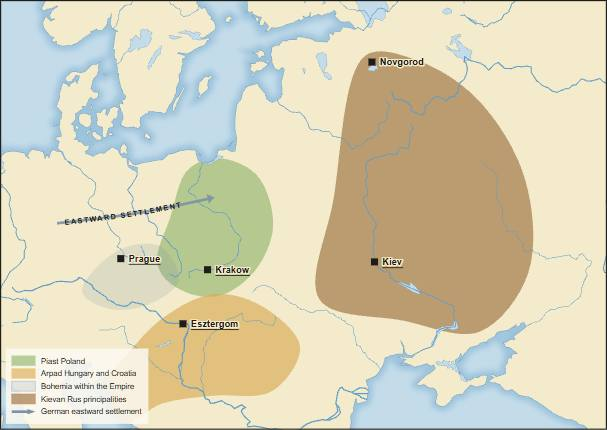
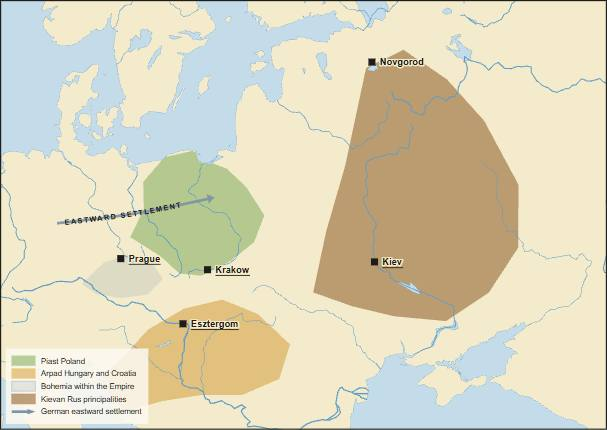
Fix land clipping and winding
Copilot-Session: 37f2f47f-8b63-49cd-b8ce-cded564ac449

diff --git a/atlas/js/plate.js b/atlas/js/plate.js
@@ -16,6 +16,7 @@
 
   const BASE = window.ATLAS_BASE;
   const LANDF = topojson.feature(BASE, BASE.objects.land);
+  const LAND_FEATURES = LANDF.type === "FeatureCollection" ? LANDF.features : [LANDF];
   const RIVERS = topojson.feature(BASE, BASE.objects.rivers);
   const LAKES = topojson.feature(BASE, BASE.objects.lakes);
 
@@ -83,6 +84,28 @@
   /** An area with its tier defaults filled in; anything set on the layer wins. */
   function areaLook(L) { return L.tier ? Object.assign({}, TIER_LOOK[L.tier], L) : L; }
 
+  const safeId = (s) => String(s || "plate").replace(/[^a-z0-9_-]+/gi, "-");
+
+  function closeRing(points) {
+    if (!points.length) return points;
+    const first = points[0], last = points[points.length - 1];
+    return first[0] === last[0] && first[1] === last[1] ? points : [...points, first];
+  }
+
+  function normalisePolygonRing(points) {
+    const ring = closeRing(points);
+    const area = d3.geoArea({ type: "Polygon", coordinates: [ring] });
+    return area > Math.PI * 2 ? [...points].reverse() : points;
+  }
+
+  function areaClipToLand(L) {
+    return L.clipToLand == null ? (L.clip !== "none" && L.clip !== false) : L.clipToLand;
+  }
+
+  function seaCutoutPath(geo, w, h) {
+    return `M0,0H${w}V${h}H0Z${geo(LANDF) || ""}`;
+  }
+
   function areaFill(defs, L) {
     L = areaLook(L);
     const c = L.colour || AREA_DEFAULT, pat = L.pattern || "solid";
@@ -94,7 +117,7 @@
   // ---- geometry: a soft "zone" around anchor places, the way the atlas draws realms
   function zonePath(L, proj) {
     if (L.polygon) {
-      const pts = L.polygon.map(proj);
+      const pts = normalisePolygonRing(L.polygon).map(proj);
       const smooth = L.smooth == null ? true : L.smooth;
       const curve = smooth === false ? d3.curveLinearClosed : d3.curveCatmullRomClosed.alpha(0.5);
       return d3.line().curve(curve)(pts);
@@ -173,16 +196,16 @@
   }
 
   const haloText = (sel, colour = LAND, w = 2.6) => sel.attr("stroke", colour).attr("stroke-width", w).attr("stroke-linejoin", "round").attr("paint-order", "stroke");
-function drawDiagramFigure(container, fig, fi, w, h) {
+function drawDiagramFigure(container, fig, fi, w, h, uid) {
   h = fig.diagram && fig.diagram.height ? Math.round(w * fig.diagram.height) : h;
   const svg = d3.select(container).append("svg")
     .attr("xmlns", "http://www.w3.org/2000/svg").attr("viewBox", `0 0 ${w} ${h}`).attr("width", w).attr("height", h)
     .attr("class", "fig").attr("data-fig", fi).attr("font-family", SANS);
   const defs = svg.append("defs");
-  defs.append("marker").attr("id", `diag-head-${fi}`).attr("viewBox", "0 0 10 10").attr("refX", 9).attr("refY", 5)
+  defs.append("marker").attr("id", `${uid}-diag-head-${fi}`).attr("viewBox", "0 0 10 10").attr("refX", 9).attr("refY", 5)
     .attr("markerWidth", 7).attr("markerHeight", 7).attr("orient", "auto-start-reverse")
     .append("path").attr("d", "M0,0L10,5L0,10Z").attr("fill", INK);
-  defs.append("marker").attr("id", `diag-bar-${fi}`).attr("viewBox", "0 0 10 10").attr("refX", 5).attr("refY", 5)
+  defs.append("marker").attr("id", `${uid}-diag-bar-${fi}`).attr("viewBox", "0 0 10 10").attr("refX", 5).attr("refY", 5)
     .attr("markerWidth", 8).attr("markerHeight", 8).attr("orient", "auto")
     .append("path").attr("d", "M5,1L5,9").attr("stroke", INK).attr("stroke-width", 2);
   svg.append("rect").attr("width", w).attr("height", h).attr("fill", LAND);
@@ -228,7 +251,7 @@ function drawDiagramFigure(container, fig, fi, w, h) {
     const dPath = route.length ? d3.line().curve(d3.curveLinear)(pts) : `M${p[0]},${p[1]}C${p[0]},${mid[1]} ${q[0]},${mid[1]} ${q[0]},${q[1]}`;
     g.append("path").attr("d", dPath)
       .attr("fill", "none").attr("stroke", a.colour || INK).attr("stroke-width", a.width || 1.6)
-      .attr("stroke-dasharray", a.dashed ? "5 4" : null).attr("marker-end", `url(#${a.end === "bar" ? "diag-bar" : "diag-head"}-${fi})`);
+      .attr("stroke-dasharray", a.dashed ? "5 4" : null).attr("marker-end", `url(#${uid}-${a.end === "bar" ? "diag-bar" : "diag-head"}-${fi})`);
     const labelAt = a.labelAt ? [sx(a.labelAt[0]), sy(a.labelAt[1])] : mid;
     if (a.label) haloText(g.append("text").attr("x", labelAt[0]).attr("y", labelAt[1] - 4).attr("text-anchor", "middle")
       .attr("font-size", 10).attr("font-style", "italic").attr("fill", a.colour || INK).text(a.label), LAND, 4);
@@ -236,7 +259,7 @@ function drawDiagramFigure(container, fig, fi, w, h) {
   return svg.node();
 }
 
-function drawSmallMultiplesFigure(container, fig, fi, w, h) {
+function drawSmallMultiplesFigure(container, fig, fi, w, h, uid) {
   const svg = d3.select(container).append("svg")
     .attr("xmlns", "http://www.w3.org/2000/svg").attr("viewBox", `0 0 ${w} ${h}`).attr("width", w).attr("height", h)
     .attr("class", "fig").attr("data-fig", fi).attr("font-family", SANS);
@@ -252,12 +275,13 @@ function drawSmallMultiplesFigure(container, fig, fi, w, h) {
     const panelDefs = g.append("defs");
     const proj = projectionFor(fig, pw, ph);
     const geo = d3.geoPath(proj);
-    const clipId = `sm-frame-${fi}-${i}`, landClip = `sm-land-${fi}-${i}`, landMask = `sm-land-mask-${fi}-${i}`;
+    const clipId = `${uid}-sm-frame-${fi}-${i}`, landClip = `${uid}-sm-land-${fi}-${i}`, landMask = `${uid}-sm-land-mask-${fi}-${i}`;
     panelDefs.append("clipPath").attr("id", clipId).attr("clipPathUnits", "userSpaceOnUse").append("rect").attr("width", pw).attr("height", ph);
-    panelDefs.append("clipPath").attr("id", landClip).attr("clipPathUnits", "userSpaceOnUse").append("path").attr("d", geo(LANDF));
+    const plc = panelDefs.append("clipPath").attr("id", landClip).attr("clipPathUnits", "userSpaceOnUse");
+    for (const f of LAND_FEATURES) plc.append("path").attr("d", geo(f));
     const lm = panelDefs.append("mask").attr("id", landMask).attr("maskUnits", "userSpaceOnUse");
     lm.append("rect").attr("width", pw).attr("height", ph).attr("fill", "#000");
-    lm.append("path").attr("d", geo(LANDF)).attr("fill", "#fff");
+    for (const f of LAND_FEATURES) lm.append("path").attr("d", geo(f)).attr("fill", "#fff");
     const root = g.append("g").attr("clip-path", `url(#${clipId})`);
     root.append("rect").attr("width", pw).attr("height", ph).attr("fill", SEA);
     root.append("path").attr("d", geo(LANDF)).attr("fill", LAND).attr("stroke", "#7fa9c4").attr("stroke-width", 0.5);
@@ -268,17 +292,30 @@ function drawSmallMultiplesFigure(container, fig, fi, w, h) {
     const pointLayer = root.append("g").attr("class", "points");
     const labelLayer = root.append("g").attr("class", "labels");
     const all = [...(fig.layers || []), ...(panel.layers || [])];
-    for (const L0 of all.filter((l) => l.type === "area")) {
+    let panelAreaSeq = 0;
+    const drawPanelArea = (L0) => {
       const L = areaLook(L0), d = zonePath(L, proj);
-      if (!d) continue;
+      if (!d) return;
       const lg = areaLayer.append("g").attr("class", `layer ${L.type}`).attr("data-layer", L.id || null);
-      const clipToLand = L.clipToLand == null ? (L.clip !== "none" && L.clip !== false) : L.clipToLand;
-      if (clipToLand) lg.attr("clip-path", `url(#${landClip})`).attr("mask", `url(#${landMask})`);
+      const clipToLand = areaClipToLand(L);
       const fill = areaFill(defs, L);
-      lg.append("path").attr("d", d).attr("fill", fill.fill).attr("fill-opacity", fill.op)
-        .attr("stroke", L.edge === false || clipToLand ? "none" : shade(L.colour || AREA_DEFAULT, 0.6)).attr("stroke-width", 0.7)
-        .attr("stroke-dasharray", L.edge === "dashed" ? "5 3" : null);
-    }
+      if (clipToLand) {
+        const areaClip = `${uid}-sm-area-${fi}-${i}-${safeId(L.id || "area")}-${panelAreaSeq++}`;
+        panelDefs.append("clipPath").attr("id", areaClip).attr("clipPathUnits", "userSpaceOnUse").append("path").attr("d", d);
+        lg.attr("clip-path", `url(#${areaClip})`);
+        for (const f of LAND_FEATURES) lg.append("path").attr("d", geo(f)).attr("fill", fill.fill).attr("fill-opacity", fill.op).attr("stroke", "none");
+      } else {
+        lg.append("path").attr("d", d).attr("fill", fill.fill).attr("fill-opacity", fill.op)
+          .attr("stroke", L.edge === false ? "none" : shade(L.colour || AREA_DEFAULT, 0.6)).attr("stroke-width", 0.7)
+          .attr("stroke-dasharray", L.edge === "dashed" ? "5 3" : null);
+      }
+    };
+    const areaLayers = all.filter((l) => l.type === "area");
+    for (const L of areaLayers.filter(areaClipToLand)) drawPanelArea(L);
+    root.append("path").attr("d", seaCutoutPath(geo, pw, ph)).attr("fill", SEA).attr("fill-rule", "evenodd").attr("pointer-events", "none");
+    root.append("path").attr("d", geo(LAKES)).attr("fill", SEA).attr("stroke", "#7fa9c4").attr("stroke-width", 0.35);
+    for (const f of RIVERS.features) if ((f.properties.scalerank || 6) <= 4) root.append("path").attr("d", geo(f)).attr("fill", "none").attr("stroke", RIVER).attr("stroke-width", 0.45);
+    for (const L of areaLayers.filter((l) => !areaClipToLand(l))) drawPanelArea(L);
     for (const L of all.filter((l) => l.type === "boundary")) {
       const d = d3.line().curve(L.closed ? d3.curveCatmullRomClosed.alpha(0.5) : d3.curveCatmullRom.alpha(0.5))(L.path.map(proj));
       lineLayer.append("path").attr("class", `layer ${L.type}`).attr("data-layer", L.id || null)
@@ -319,21 +356,25 @@ function drawSmallMultiplesFigure(container, fig, fi, w, h) {
 }
 
   // ---- one figure
-  function drawFigure(container, fig, fi, w, h) {
-    if (fig.kind === "diagram") return drawDiagramFigure(container, fig, fi, w, h);
-    if (fig.kind === "small-multiples") return drawSmallMultiplesFigure(container, fig, fi, w, h);
+  function drawFigure(container, fig, fi, w, h, uid) {
+    if (fig.kind === "diagram") return drawDiagramFigure(container, fig, fi, w, h, uid);
+    if (fig.kind === "small-multiples") return drawSmallMultiplesFigure(container, fig, fi, w, h, uid);
     const svg = d3.select(container).append("svg")
       .attr("xmlns", "http://www.w3.org/2000/svg").attr("viewBox", `0 0 ${w} ${h}`).attr("width", w).attr("height", h)
       .attr("class", "fig").attr("data-fig", fi).attr("font-family", SANS);
     const defs = svg.append("defs");
     const proj = projectionFor(fig, w, h);
     const geo = d3.geoPath(proj);
-    const clipId = `frame-${fi}`, landClip = `land-${fi}`;
-    defs.append("clipPath").attr("id", clipId).append("rect").attr("width", w).attr("height", h);
+    const clipId = `${uid}-frame-${fi}`, landClip = `${uid}-land-${fi}`, landMask = `${uid}-land-mask-${fi}`;
+    defs.append("clipPath").attr("id", clipId).attr("clipPathUnits", "userSpaceOnUse").append("rect").attr("width", w).attr("height", h);
     const base = fig.base || {};
-    const landDef = defs.append("clipPath").attr("id", landClip);
+    const landDef = defs.append("clipPath").attr("id", landClip).attr("clipPathUnits", "userSpaceOnUse");
     if (base.map === false) landDef.append("rect").attr("width", w).attr("height", h);
-    else landDef.append("path").attr("d", geo(LANDF));
+    else for (const f of LAND_FEATURES) landDef.append("path").attr("d", geo(f));
+    const lm = defs.append("mask").attr("id", landMask).attr("maskUnits", "userSpaceOnUse");
+    lm.append("rect").attr("width", w).attr("height", h).attr("fill", "#000");
+    if (base.map === false) lm.append("rect").attr("width", w).attr("height", h).attr("fill", "#fff");
+    else for (const f of LAND_FEATURES) lm.append("path").attr("d", geo(f)).attr("fill", "#fff");
     const blur = defs.append("filter").attr("id", `soft-${fi}`).attr("x", "-10%").attr("y", "-10%").attr("width", "120%").attr("height", "120%");
     blur.append("feGaussianBlur").attr("stdDeviation", 3);
 
@@ -365,19 +406,39 @@ function drawSmallMultiplesFigure(container, fig, fi, w, h) {
     const layerG = (parent, L) => parent.append("g").attr("class", `layer ${L.type}`).attr("data-layer", L.id || null);
     const layers = fig.layers || [];
 
-    // areas first, largest first so cores sit on top of extents
-    for (const L0 of layers.filter((l) => l.type === "area")) {
+    // areas first, largest first so cores sit on top of extents. Land-clipped areas are drawn under a
+    // sea cutout; explicit clipToLand:false areas (e.g. maritime zones) are drawn above it.
+    let areaSeq = 0;
+    const drawArea = (L0) => {
       const L = areaLook(L0);
       const d = zonePath(L, proj);
-      if (!d) continue;
+      if (!d) return;
       const g = layerG(L_AREA, L);
-      const clipToLand = L.clipToLand == null ? (L.clip !== "none" && L.clip !== false) : L.clipToLand;
-      if (clipToLand) g.attr("clip-path", `url(#${landClip})`);
+      const clipToLand = areaClipToLand(L);
       const { fill, op } = areaFill(defs, L);
-      g.append("path").attr("d", d).attr("fill", fill).attr("fill-opacity", op)
-        .attr("stroke", L.edge === false || clipToLand ? "none" : shade(L.colour || AREA_DEFAULT, 0.6)).attr("stroke-width", L.edge === "strong" ? 1.6 : 0.8)
-        .attr("stroke-dasharray", L.edge === "dashed" ? "5 3" : null);
+      if (clipToLand && base.map !== false) {
+        const areaClip = `${uid}-area-${fi}-${safeId(L.id || "area")}-${areaSeq++}`;
+        defs.append("clipPath").attr("id", areaClip).attr("clipPathUnits", "userSpaceOnUse").append("path").attr("d", d);
+        g.attr("clip-path", `url(#${areaClip})`);
+        for (const f of LAND_FEATURES) g.append("path").attr("d", geo(f)).attr("fill", fill).attr("fill-opacity", op).attr("stroke", "none");
+      } else {
+        g.append("path").attr("d", d).attr("fill", fill).attr("fill-opacity", op)
+          .attr("stroke", L.edge === false ? "none" : shade(L.colour || AREA_DEFAULT, 0.6)).attr("stroke-width", L.edge === "strong" ? 1.6 : 0.8)
+          .attr("stroke-dasharray", L.edge === "dashed" ? "5 3" : null);
+      }
+    };
+    const areaLayers = layers.filter((l) => l.type === "area");
+    for (const L of areaLayers.filter(areaClipToLand)) drawArea(L);
+    if (base.map !== false) {
+      L_WATER.append("path").attr("d", seaCutoutPath(geo, w, h)).attr("fill", base.sea || SEA).attr("fill-rule", "evenodd").attr("pointer-events", "none");
+      L_WATER.append("path").attr("d", geo(LAKES)).attr("fill", base.sea || SEA).attr("stroke", "#7fa9c4").attr("stroke-width", 0.4);
+      for (const f of RIVERS.features) {
+        const sr = f.properties.scalerank || 6;
+        if (sr > (base.riverRank || 6)) continue;
+        L_WATER.append("path").attr("d", geo(f)).attr("fill", "none").attr("stroke", RIVER).attr("stroke-width", Math.max(0.5, 1.6 - sr * 0.18)).attr("stroke-linecap", "round");
+      }
     }
+    for (const L of areaLayers.filter((l) => !areaClipToLand(l))) drawArea(L);
 
     for (const L of layers.filter((l) => l.type === "boundary")) {
       const g = layerG(L_LINES, L);
@@ -637,6 +698,7 @@ function drawSmallMultiplesFigure(container, fig, fi, w, h) {
     spread.appendChild(left);
 
     const figs = spec.figures;
+    const uid = `p-${safeId(spec.id)}`;
     const avail = PAGE_H - HEAD_H - figs.length * (CAP_H + GAP);
     const shares = figs.map((f) => f.share || 1), tot = shares.reduce((a, b) => a + b, 0);
     figs.forEach((fig, i) => {
@@ -644,7 +706,7 @@ function drawSmallMultiplesFigure(container, fig, fi, w, h) {
       box.className = "fig-box";
       left.appendChild(box);
       const h = Math.round((avail * shares[i]) / tot);
-      drawFigure(box, fig, i, PAGE_W, h);
+      drawFigure(box, fig, i, PAGE_W, h, uid);
       const cap = document.createElement("figcaption");
       cap.textContent = fig.caption;
       box.appendChild(cap);
@@ -793,7 +855,7 @@ function drawSmallMultiplesFigure(container, fig, fi, w, h) {
     window.ATLAS.ready = true;
   }
 
-  window.ATLAS = { render, figureSVG, show, drawSymbol, ready: false };
+  window.ATLAS = { render, figureSVG, show, drawSymbol, ready: false, test: { normalisePolygonRing } };
 
   document.addEventListener("DOMContentLoaded", () => {
     const pick = () => decodeURIComponent(location.hash.replace(/^#/, "")) || plateIds()[0];

diff --git a/atlas/plates/eastern-kingdoms-mongols.js b/atlas/plates/eastern-kingdoms-mongols.js
@@ -4,10 +4,10 @@
   const KIEV=[30.52,50.45], NOV=[31.28,58.52], KRA=[19.94,50.06], GNI=[17.03,52.54], ESZ=[18.74,47.79], BUDA=[19.04,47.5], LEGN=[16.16,51.21], SAJO=[20.8,48.1], PRAG=[14.42,50.08], MOS=[37.62,55.75];
   window.PLATES["eastern-kingdoms-mongols"] = { id:"eastern-kingdoms-mongols", title:"Poland, Hungary, Rus and the Mongol shock", head:"High Middle Ages / Eastern Europe", folio:"22", viewer:"medieval/1241/ch-eastern-kingdoms", figures:[
     { caption:"New Christian kingdoms and Rus before 1200", share:0.5, extent:[[10,44],[42,60]], projection:"conic", layers:[
-      {id:"poland",type:"area",tier:"core",colour:POL,legend:"Piast Poland",polygon:[[16.7,50.2],[17.2,52.0],[18.0,54.0],[20.0,54.6],[22.8,54.0],[24.0,52.0],[23.0,50.2],[21.0,49.1],[19.2,49.0],[17.4,49.5]],smooth:true},
-      {id:"hungary",type:"area",tier:"core",colour:HUN,legend:"Arpad Hungary and Croatia",polygon:[[14.0,44.2],[15.4,46.0],[17.6,48.0],[20.5,49.1],[23.5,48.7],[25.8,47.1],[24.2,45.3],[20.8,45.0],[18.0,44.5],[16.0,43.5]],smooth:true},
-      {id:"bohemia",type:"area",tier:"influence",colour:GER,legend:"Bohemia within the Empire",polygon:[[12.4,48.5],[14.2,50.4],[16.8,50.8],[18.2,49.5],[16.5,48.4],[14.2,48.0]],smooth:true},
-      {id:"kievan-rus",type:"area",tier:"core",colour:RUS,legend:"Kievan Rus principalities",polygon:[[27.0,49.0],[28.0,53.0],[30.8,58.8],[34.8,58.4],[38.8,56.5],[41.0,53.0],[40.0,49.2],[36.5,47.2],[32.0,48.0]],smooth:true},
+      {id:"poland",type:"area",tier:"core",colour:POL,legend:"Piast Poland",polygon:[[14.8,51.0],[15.4,52.2],[15.1,53.3],[16.3,54.4],[18.2,54.8],[19.5,54.4],[20.7,54.2],[22.1,53.5],[23.4,52.4],[22.8,51.3],[21.4,50.5],[19.6,49.8],[18.2,49.8],[16.9,50.4]],smooth:false},
+      {id:"hungary",type:"area",tier:"core",colour:HUN,legend:"Arpad Hungary and Croatia",polygon:[[14.1,45.0],[15.5,46.2],[16.7,47.4],[18.7,48.4],[21.0,48.9],[23.2,48.4],[25.2,47.2],[24.6,45.8],[22.5,45.1],[20.2,45.0],[18.0,44.6],[16.0,44.0]],smooth:false},
+      {id:"bohemia",type:"area",tier:"influence",colour:GER,legend:"Bohemia within the Empire",polygon:[[12.3,48.8],[13.4,49.8],[14.8,50.3],[16.3,50.2],[17.2,49.5],[16.4,48.8],[14.8,48.5],[13.3,48.5]],smooth:false},
+      {id:"kievan-rus",type:"area",tier:"core",colour:RUS,legend:"Kievan Rus principalities",polygon:[[26.6,49.3],[27.5,51.8],[28.9,54.4],[30.8,58.3],[33.8,58.9],[36.8,57.5],[39.0,55.6],[40.5,52.8],[39.7,50.3],[37.4,48.7],[34.6,47.8],[31.5,48.2],[29.0,48.7]],smooth:false},
       {id:"german-east",type:"arrow",colour:GER,width:2.8,legend:"German eastward settlement",path:[[10,51],[15,52],[20,53]],label:"eastward settlement"},
       {id:"kiev",type:"point",symbol:"capital",at:KIEV,name:"Kiev"}, {id:"novgorod",type:"point",symbol:"large-city",at:NOV,name:"Novgorod"}, {id:"krakow",type:"point",symbol:"capital",at:KRA,name:"Krakow"}, {id:"esztergom",type:"point",symbol:"capital",at:ESZ,name:"Esztergom"}, {id:"prague",type:"point",symbol:"capital",at:PRAG,name:"Prague"}
     ], legend:{position:"bottom-left",columns:1} },

diff --git a/atlas/plates/angevin-empire.js b/atlas/plates/angevin-empire.js
@@ -4,13 +4,13 @@
   const HAS=[0.49,50.91], LON=[-0.13,51.51], WIN=[-1.32,51.06], RUN=[-0.57,51.44], ROU=[1.1,49.44], ANG=[-0.55,47.47], POI=[0.34,46.58], BOR=[-0.58,44.84], CHI=[0.24,47.17], DUB=[-6.26,53.35], BOU=[2.34,50.58];
   window.PLATES["angevin-empire"] = { id:"angevin-empire", title:"England, Normandy and the Angevin empire", head:"High Middle Ages / England and France", folio:"21", viewer:"medieval/1215/ch-angevin-england", figures:[
     { caption:"Norman England after 1066", share:0.48, extent:[[-8,43],[5,57]], projection:"mercator", layers:[
-      {id:"england",type:"area",tier:"core",colour:ENG,legend:"Kingdom of England",polygon:[[-5.9,49.7],[-5.2,50.9],[-4.4,53.6],[-3.2,55.5],[-1.0,55.9],[1.8,55.4],[2.2,52.8],[1.8,51.0],[0.4,50.5],[-2.5,50.0],[-4.2,50.0]],smooth:true},
+      {id:"england",type:"area",tier:"core",colour:ENG,legend:"Kingdom of England (Wales separate)",polygon:[[-5.7,50.0],[-4.4,50.3],[-2.6,50.5],[-0.5,50.7],[1.4,51.0],[1.3,52.3],[0.4,53.3],[-1.1,54.3],[-2.1,55.0],[-2.9,55.5],[-3.3,54.9],[-2.8,54.1],[-3.0,53.1],[-2.7,52.3],[-3.3,51.9],[-4.4,51.8],[-5.2,51.2]],smooth:false},
       {id:"normandy",type:"area",tier:"core",colour:ANJ,legend:"Duchy of Normandy",polygon:[[-2.2,48.5],[-1.2,49.7],[0.2,50.1],[1.6,49.8],[1.7,49.0],[0.4,48.5],[-1.2,48.3]],smooth:true},
       {id:"conquest",type:"arrow",colour:ANJ,width:3.5,legend:"Norman invasion",path:[ROU,[0.8,50.2],HAS]},
       {id:"hastings",type:"point",symbol:"battle",at:HAS,name:"Hastings",labelPos:"se",tag:{text:"1066",colour:"#e8806a"}}, {id:"london",type:"point",symbol:"capital",at:LON,name:"London"}, {id:"winchester",type:"point",symbol:"large-city",at:WIN,name:"Winchester",labelPos:"w"}
     ], legend:{position:"bottom-left",columns:1} },
     { caption:"The Angevin realm and its crisis", share:0.52, extent:[[-9,42],[5,57]], projection:"mercator", layers:[
-      {id:"england2",type:"area",tier:"core",colour:ENG,legend:"England",polygon:[[-5.9,49.7],[-5.2,50.9],[-4.4,53.6],[-3.2,55.5],[-1.0,55.9],[1.8,55.4],[2.2,52.8],[1.8,51.0],[0.4,50.5],[-2.5,50.0],[-4.2,50.0]],smooth:true},
+      {id:"england2",type:"area",tier:"core",colour:ENG,legend:"England (not Wales)",polygon:[[-5.7,50.0],[-4.4,50.3],[-2.6,50.5],[-0.5,50.7],[1.4,51.0],[1.3,52.3],[0.4,53.3],[-1.1,54.3],[-2.1,55.0],[-2.9,55.5],[-3.3,54.9],[-2.8,54.1],[-3.0,53.1],[-2.7,52.3],[-3.3,51.9],[-4.4,51.8],[-5.2,51.2]],smooth:false},
       {id:"angevin",type:"area",tier:"conquest",colour:ANJ,legend:"Angevin lands in France",polygon:[[-2.2,43.1],[-1.8,45.0],[-1.4,47.6],[-1.2,49.7],[0.2,50.1],[1.7,49.7],[2.3,47.2],[1.0,45.0],[-0.2,43.5]],smooth:true},
       {id:"ireland",type:"area",tier:"influence",colour:IR,legend:"English foothold in Ireland",polygon:[[-8,51.5],[-6.5,54.2],[-5.5,53.0],[-5.8,51.8]],smooth:true},
       {id:"capetian",type:"area",tier:"influence",colour:FR,legend:"Capetian pressure",polygon:[[0.8,47.5],[2.3,49.7],[4.2,49.2],[4.0,47.2],[2.1,46.8]],smooth:"basis"},

diff --git a/atlas/plates/first-crusades.js b/atlas/plates/first-crusades.js
@@ -4,7 +4,7 @@
   const CLER=[3.08,45.78], VEZ=[18.42,43.86], CON=[28.98,41.01], NIC=[29.72,40.43], DOR=[30.52,39.78], ANT=[36.16,36.20], JER=[35.21,31.77], EDE=[38.79,37.16], TRI=[35.84,34.43], ACR=[35.08,32.92], HAT=[35.46,32.8], DAM=[36.31,33.51], TYE=[35.19,33.27], JAF=[34.75,32.05], SAL=[33.45,36.5];
   window.PLATES["first-crusades"] = { id:"first-crusades", title:"The First, Second and Third Crusades", head:"High Middle Ages / The Crusades", folio:"19", viewer:"medieval/1099/ch-crusades", figures:[
     { caption:"Routes of the First Crusade, 1096-99", share:0.5, extent:[[-6,28],[42,50]], projection:"conic", layers:[
-      {id:"byzantium",type:"area",tier:"core",colour:BYZ,legend:"Byzantium",polygon:[[18.5,39.2],[19.8,42.0],[22.5,44.1],[26.8,43.3],[29.8,41.4],[29.6,39.3],[27.0,37.8],[24.2,38.2],[22.0,39.6]],smooth:true},
+      {id:"byzantium",type:"area",tier:"core",colour:BYZ,legend:"Byzantium",polygon:[[18.2,39.0],[19.4,40.8],[20.8,42.2],[23.0,42.8],[25.8,42.4],[28.8,41.9],[30.3,40.7],[30.2,38.7],[28.4,37.3],[25.5,37.1],[23.6,36.6],[22.2,37.4],[21.0,39.0]],smooth:false},
       {id:"seljuk",type:"area",tier:"core",colour:SEL,legend:"Seljuk Turks in Anatolia and Syria",polygon:[[29.2,38.0],[31.5,40.7],[35.6,40.5],[39.4,38.4],[40.8,36.3],[39.0,35.0],[36.6,34.2],[35.4,35.8],[33.4,36.7],[30.8,36.3]],smooth:true},
       {id:"fatimid",type:"area",tier:"core",colour:FAT,legend:"Fatimid Palestine and Egypt",polygon:[[29.2,30.4],[31.5,31.8],[34.9,32.2],[36.1,31.3],[35.0,29.4],[32.2,28.8],[29.7,29.2]],smooth:true},
       {id:"danube-route",type:"arrow",colour:CR,width:3.2,legend:"Overland route via Rhine-Danube",path:[CLER,[7.5,49.8],[11.5,48.8],[16.4,48.2],[20.5,44.8],[23.3,42.7],[26,42.3],CON,NIC,DOR,ANT,JER]},
